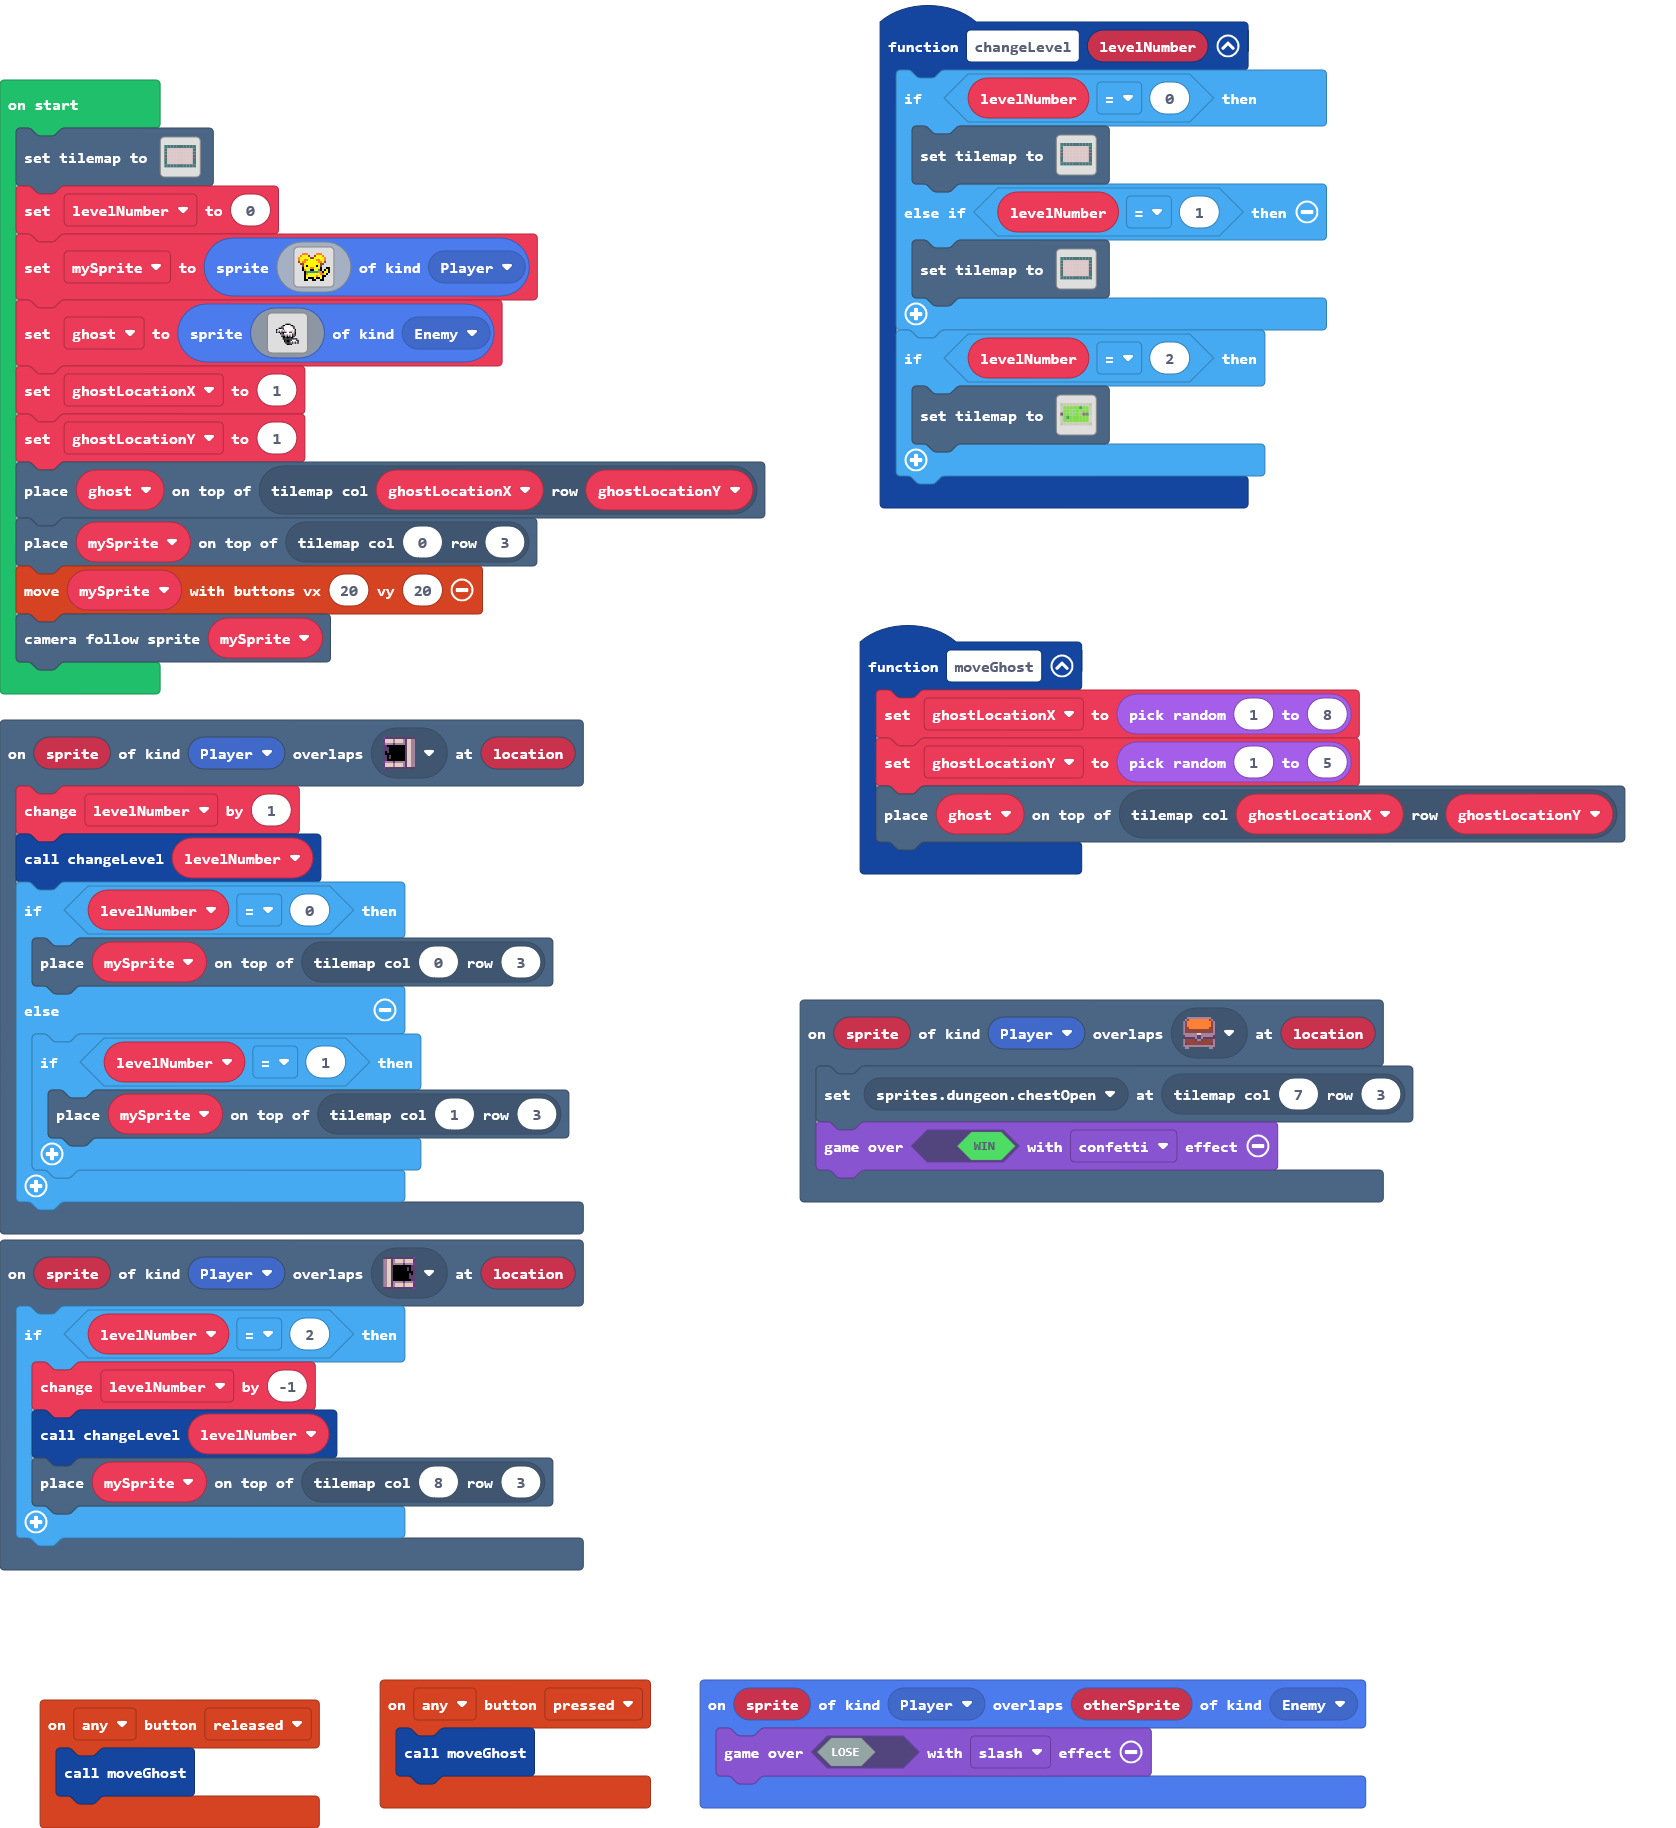
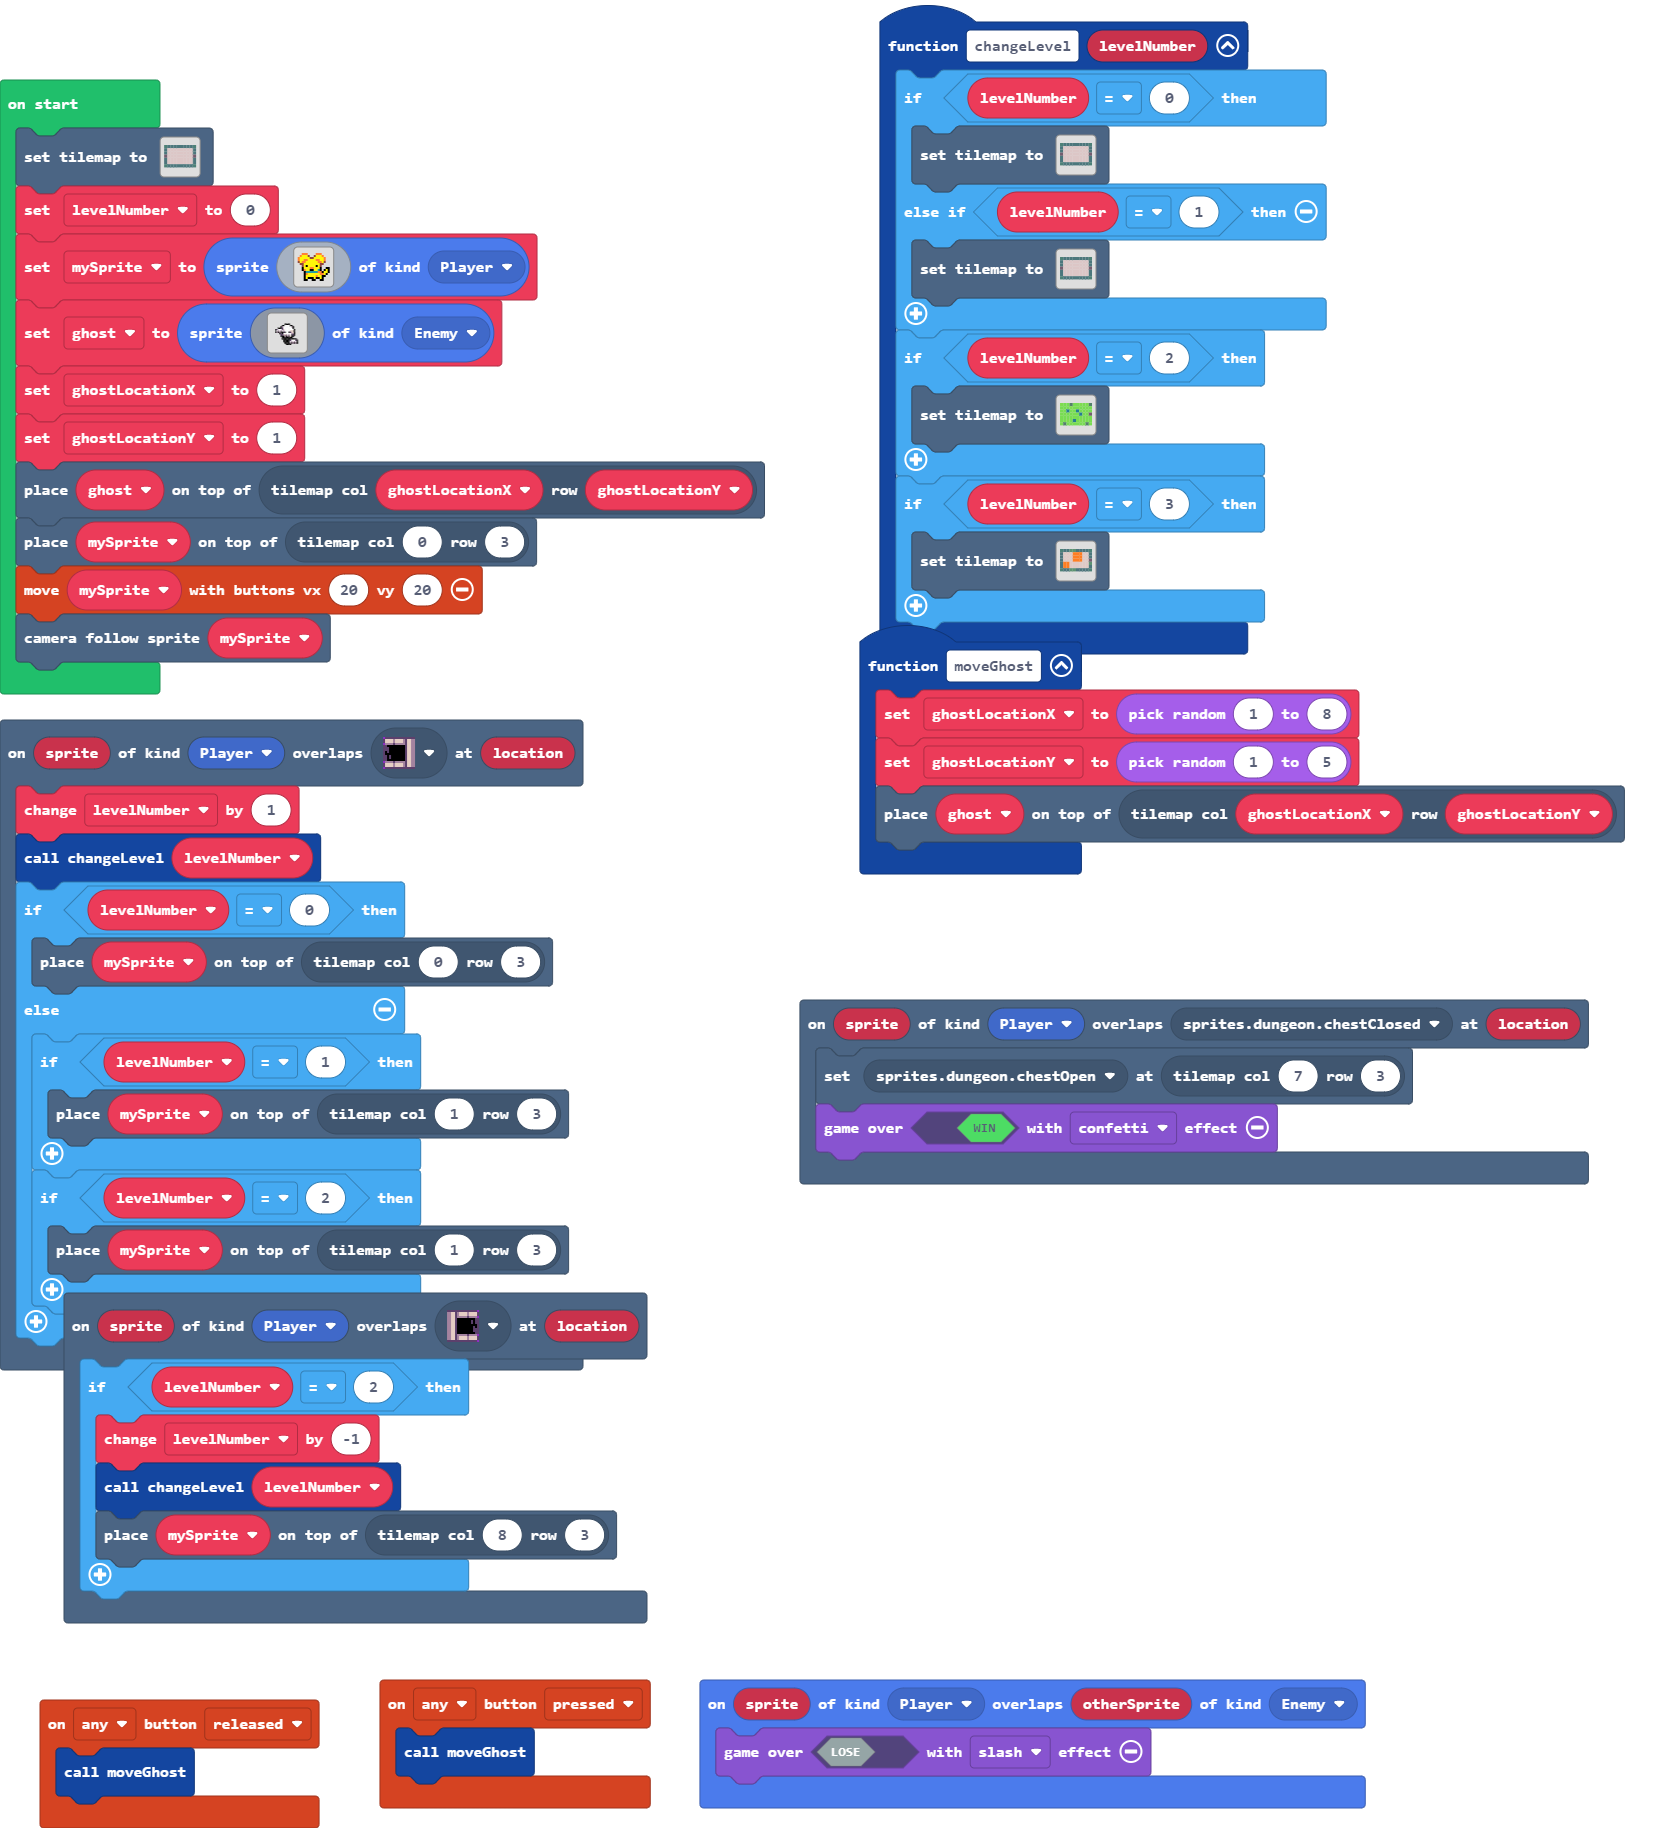
asd

diff --git a/tilemap.g.ts b/tilemap.g.ts
@@ -36,16 +36,6 @@ namespace myTiles {
 . . . . . . . . . . . . . . . . 
 . . . . . . . . . . . . . . . . 
 `, [myTiles.transparency16], TileScale.Sixteen);
-            case "level3":
[1 lines of base64/hex data omitted]
-. . . . . . . . . . 
-. . . . . . 2 . . . 
-. . . . . . . . . . 
-. . . . . . . . 2 . 
-. . 2 . . . . . . . 
-. . . . . . . . . . 
-. . . . . . . . . . 
-`, [myTiles.transparency16,sprites.castle.tilePath1,sprites.castle.tilePath7,sprites.castle.tilePath9,sprites.castle.tilePath3,sprites.castle.tilePath2,sprites.castle.tilePath4,sprites.castle.tilePath8,sprites.castle.tilePath6,sprites.castle.tilePath5,sprites.castle.tileGrass3,sprites.castle.tileGrass2,sprites.castle.tileGrass1,sprites.builtin.forestTiles0,sprites.dungeon.doorOpenWest,sprites.dungeon.chestClosed], TileScale.Sixteen);
             case "level2":
[1 lines of base64/hex data omitted]
 2 2 2 2 2 2 2 2 2 2 
@@ -56,6 +46,45 @@ namespace myTiles {
 2 . . . . . . . . 2 
 2 2 2 2 2 2 2 2 2 2 
 `, [myTiles.transparency16,sprites.dungeon.greenOuterNorthWest,sprites.dungeon.greenOuterNorth0,sprites.dungeon.greenOuterNorthEast,sprites.dungeon.greenOuterEast0,sprites.dungeon.greenOuterSouthEast,sprites.dungeon.greenOuterSouth1,sprites.dungeon.greenOuterWest0,sprites.dungeon.doorOpenWest,sprites.dungeon.floorLight0,sprites.dungeon.greenOuterSouthWest,sprites.dungeon.doorOpenEast], TileScale.Sixteen);
+            case "level6":
+            case "level6":return tiles.createTilemap(hex`1000100000000000000000000000000000000000000000000000000000000000000000000000000000000000000000000000000000000000000000000000000000000000000000000000000000000000000000000000000000000000000000000000000000000000000000000000000000000000000000000000000000000000000000000000000000000000000000000000000000000000000000000000000000000000000000000000000000000000000000000000000000000000000000000000000000000000000000000000000000000000000000000000000000000000000000000000000000000000000000000000000000000000000000000000000000000000`, img`
+. . . . . . . . . . . . . . . . 
+. . . . . . . . . . . . . . . . 
+. . . . . . . . . . . . . . . . 
+. . . . . . . . . . . . . . . . 
+. . . . . . . . . . . . . . . . 
+. . . . . . . . . . . . . . . . 
+. . . . . . . . . . . . . . . . 
+. . . . . . . . . . . . . . . . 
+. . . . . . . . . . . . . . . . 
+. . . . . . . . . . . . . . . . 
+. . . . . . . . . . . . . . . . 
+. . . . . . . . . . . . . . . . 
+. . . . . . . . . . . . . . . . 
+. . . . . . . . . . . . . . . . 
+. . . . . . . . . . . . . . . . 
+. . . . . . . . . . . . . . . . 
+`, [myTiles.transparency16], TileScale.Sixteen);
+            case "level3":
[1 lines of base64/hex data omitted]
+. . . 2 . . . . . 2 
+. . . . . . . . . . 
+. . . . . . . . . . 
+. . . . . . . . . . 
+. . . . . . . . . . 
+. . . . . . . . . . 
+. 2 . . . . . . 2 . 
+`, [myTiles.transparency16,sprites.skillmap.islandTile4,sprites.dungeon.doorOpenEast,sprites.castle.saplingOak,sprites.castle.tileGrass1,sprites.swamp.swampTile2], TileScale.Sixteen);
+            case "level5":
[1 lines of base64/hex data omitted]
+. . . . . . . . . . 
+. . . . . . . . . . 
+. . . . . . . . . . 
+. . . . . . . . . . 
+. . . . . . . . . . 
+. . . . . . . . . . 
+. . . . . . . . . . 
+`, [myTiles.transparency16,sprites.dungeon.floorLight2,sprites.dungeon.hazardLava0,sprites.dungeon.doorOpenEast,sprites.dungeon.greenOuterNorthWest,sprites.dungeon.greenOuterNorth0,sprites.dungeon.greenOuterNorth1,sprites.dungeon.greenOuterNorthEast,sprites.dungeon.greenOuterSouthWest,sprites.dungeon.greenOuterSouthEast,sprites.dungeon.greenOuterSouth0,sprites.dungeon.greenOuterEast0,sprites.dungeon.greenOuterWest1,sprites.dungeon.greenOuterNorth2,sprites.dungeon.greenOuterEast2,sprites.dungeon.greenOuterSouth2], TileScale.Sixteen);
         }
         return null;
     })

diff --git a/main.ts b/main.ts
@@ -13,6 +13,9 @@ scene.onOverlapTile(SpriteKind.Player, sprites.dungeon.doorOpenEast, function (s
         if (levelNumber == 1) {
             tiles.placeOnTile(mySprite, tiles.getTileLocation(1, 3))
         }
+        if (levelNumber == 2) {
+            tiles.placeOnTile(mySprite, tiles.getTileLocation(1, 3))
+        }
     }
 })
 function changeLevel (levelNumber: number) {
@@ -23,6 +26,9 @@ function changeLevel (levelNumber: number) {
     }
     if (levelNumber == 2) {
         tiles.setTilemap(tilemap`level3`)
+    }
+    if (levelNumber == 3) {
+        tiles.setTilemap(tilemap`level5`)
     }
 }
 scene.onOverlapTile(SpriteKind.Player, sprites.dungeon.chestClosed, function (sprite, location) {
